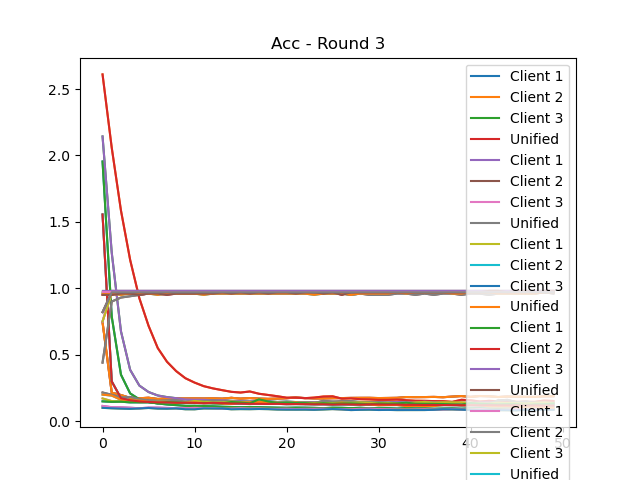
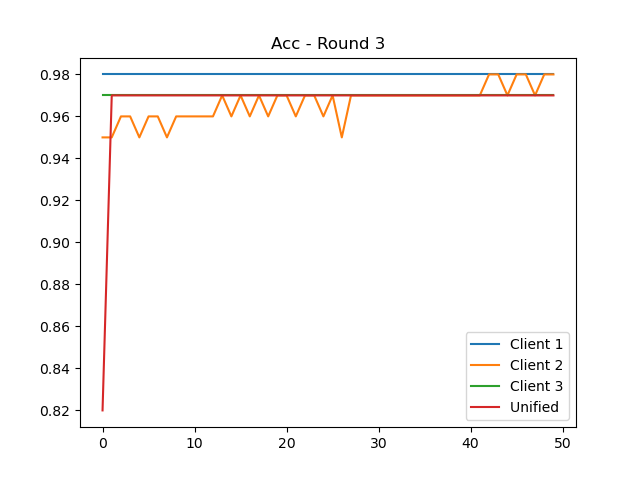
Plots of chennai finalized

diff --git a/Plotter/DataModels.py b/Plotter/DataModels.py
@@ -87,7 +87,7 @@ class UnifiedData :
         self.accuracies : list = []
         self.val_losses : list = []
         self.val_accuracies : list = []
-        self.epochs : list = []
+        self.epochs : int = 0
     
 
     def save(self, filename : str) :
@@ -120,6 +120,7 @@ class UnifiedData :
                 a.append(float(acc))
                 vl.append(float(vloss))
                 va.append(float(vacc))
+                self.epochs += 1
         self.losses = l
         self.accuracies = a
         self.val_losses = vl

diff --git a/Plotter/PlotterDriver.py b/Plotter/PlotterDriver.py
@@ -12,6 +12,7 @@ def plot_together(data_dict : dict, title : str, dir : str) :
     if not os.path.exists(dir+"\\") :
         os.mkdir(dir+"\\")
     plt.savefig(dir+"\\"+title+".png")
+    plt.clf()
 
 
 def plot(args : ArgumentParser) :
